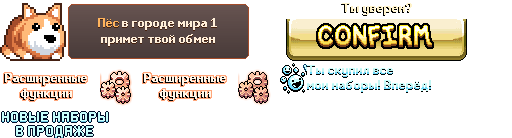
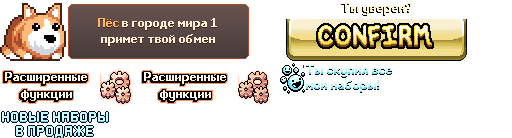
Glyph review fixes: grey VOTE raised, advanced features outlined then glowing, bundles text shorter without the Y shard, reward collection centred with yellow stripes and side sparkles, amber shelf top bar kept, Halloween bevel kept whole

diff --git a/tools/labelglyph.py b/tools/labelglyph.py
@@ -16,7 +16,7 @@ from PIL import Image
 sys.path.insert(0, os.path.dirname(__file__))
 import tempfile
 
-from retext import Font, ROOT, GAME, lum, build_panel   # noqa: E402
+from retext import Font, ROOT, GAME, lum, build_panel, hexcol   # noqa: E402
 from modredo import detect_font   # noqa: E402
 
 # (font id, glyph, text, text font, dash length each side or 0)
@@ -27,7 +27,7 @@ LABELS = [
 # (font id, glyph, canvas width or None, retext panel spec): the canvas grows to the right
 PANELS = [
     (726, chr(47691), None, {'parts': [   # Halloween: "Keep IdleOn open for another" [time] [109 below]
-        {'text': 'Держи IdleOn открытым ещё', 'box': [34, 4, 224, 21], 'clear': [[34, 6, 222, 22, 'flat']],
+        {'text': 'Держи IdleOn открытым ещё', 'box': [34, 4, 224, 21], 'clear': [[34, 6, 212, 22, 'flat'], [212, 9, 221, 12, 'flat'], [212, 12, 224, 20, 'flat'], [212, 6, 217, 9, 'flat']],
          'fonts': [475], 'align': 'left', 'flat': True, 'fill': '#ffda90', 'outline': 'auto', 'dy': 4}]}),
     (109, chr(50636), 132, {'erase': 'clear', 'parts': [   # ...[time] "for a FREE Play"
         {'runs': [[{'t': 'до ', 'fill': '#5fd8ff'}, {'t': 'БЕСПЛАТНОЙ игры', 'fill': '#c4f2ff'}]],
@@ -100,8 +100,17 @@ def simple(fid, ch, sp):
     h = sp.get('height', old.height)   # the glyph may grow downwards
     part = {'text': sp['text'], 'box': [x0, 0, x1 if 'x1' in sp else w, h], 'clear': [[x0, 0, x1, old.height]],
             'fonts': fonts, 'outline': 'auto', 'cbox': bx, 'align': sp.get('align', 'left' if x0 else 'center')}
-    part.update({k: v for k, v in sp.items() if k not in ('x0', 'x1', 'height', 'restore')})
-    return panel(fid, ch, w, {'erase': sp.get('erase', 'clear'), 'parts': [part], 'restore': sp.get('restore', [])}, h)
+    part.update({k: v for k, v in sp.items() if k not in ('x0', 'x1', 'height', 'restore', 'stripes')})
+    img, g = panel(fid, ch, w, {'erase': sp.get('erase', 'clear'), 'parts': [part], 'restore': sp.get('restore', [])}, h)
+    if sp.get('stripes'):   # diagonal bands "\" over the fill colour: [colour, period, width]
+        col, period, width = sp['stripes']
+        fill, col = hexcol(sp['fill'])[:3], hexcol(col)
+        ip = img.load()
+        for y in range(img.height):
+            for x in range(img.width):
+                if ip[x, y][:3] == fill and (x - y) % period < width:
+                    ip[x, y] = col
+    return img, g
 
 
 def main():

diff --git a/tools/retext.py b/tools/retext.py
@@ -1015,6 +1015,8 @@ def build_panel(name, sp, src, img, out_dir):
                     t = add_ring(tint_all(t, fills[0]), [outl or (0, 0, 0, 255)])
                 else:
                     t = two_tone(t, fills[0], outl or (0, 0, 0, 255))
+                for c in p.get('rings', []):   # whole rings one after another (outline, then glow)
+                    t = add_ring(t, [hexcol(c)])
                 out.append(add_ring(t, [hexcol(c) for c in p['ring']]) if p.get('ring') else t)
                 continue
             t = recolor(t, (255, 255, 255, 255), outl or (0, 0, 0, 255))
